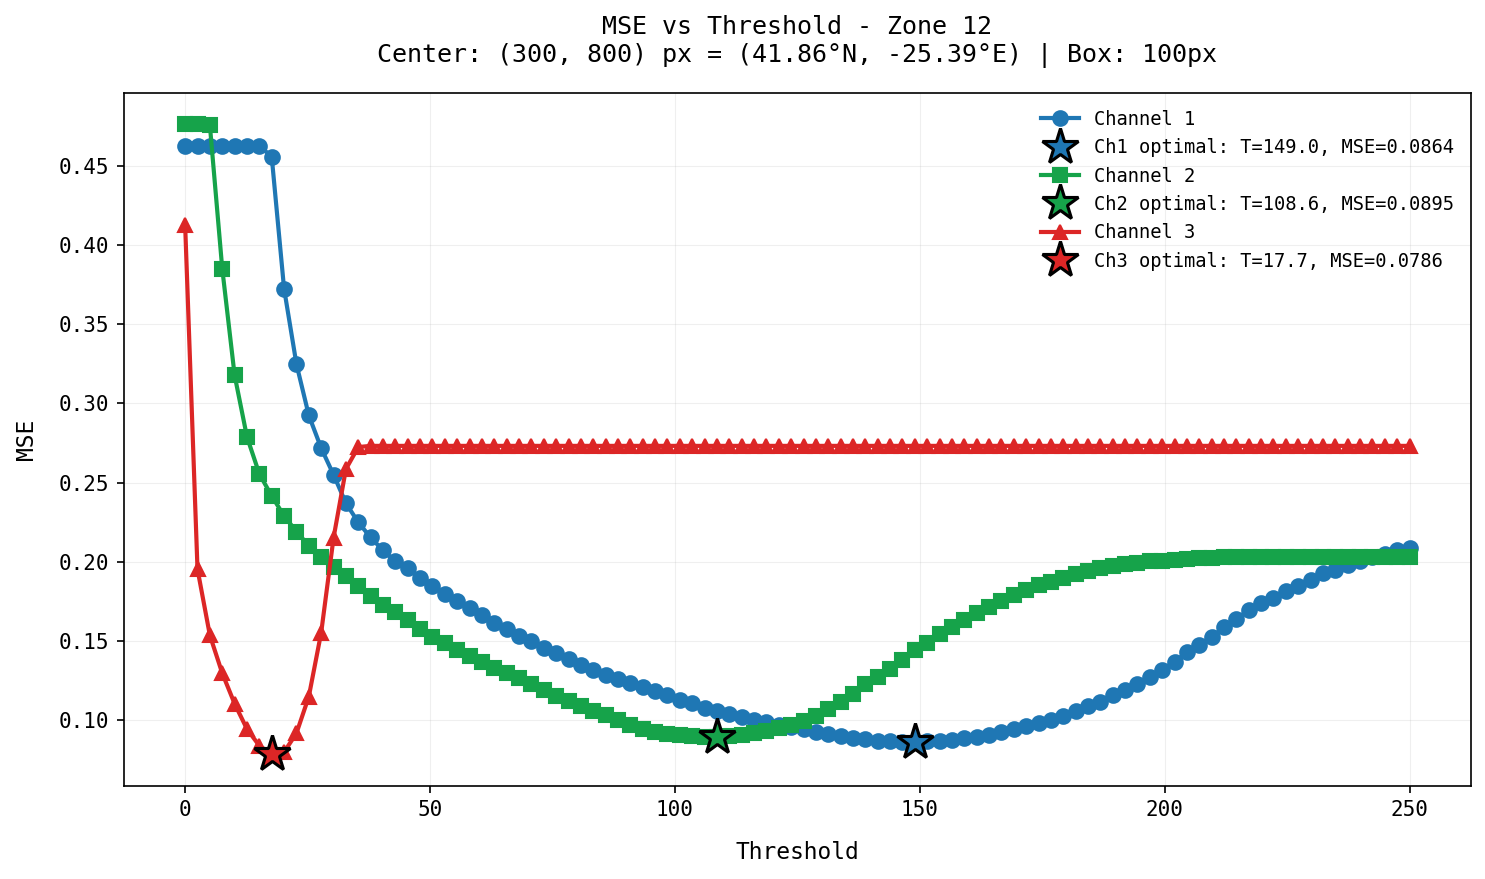
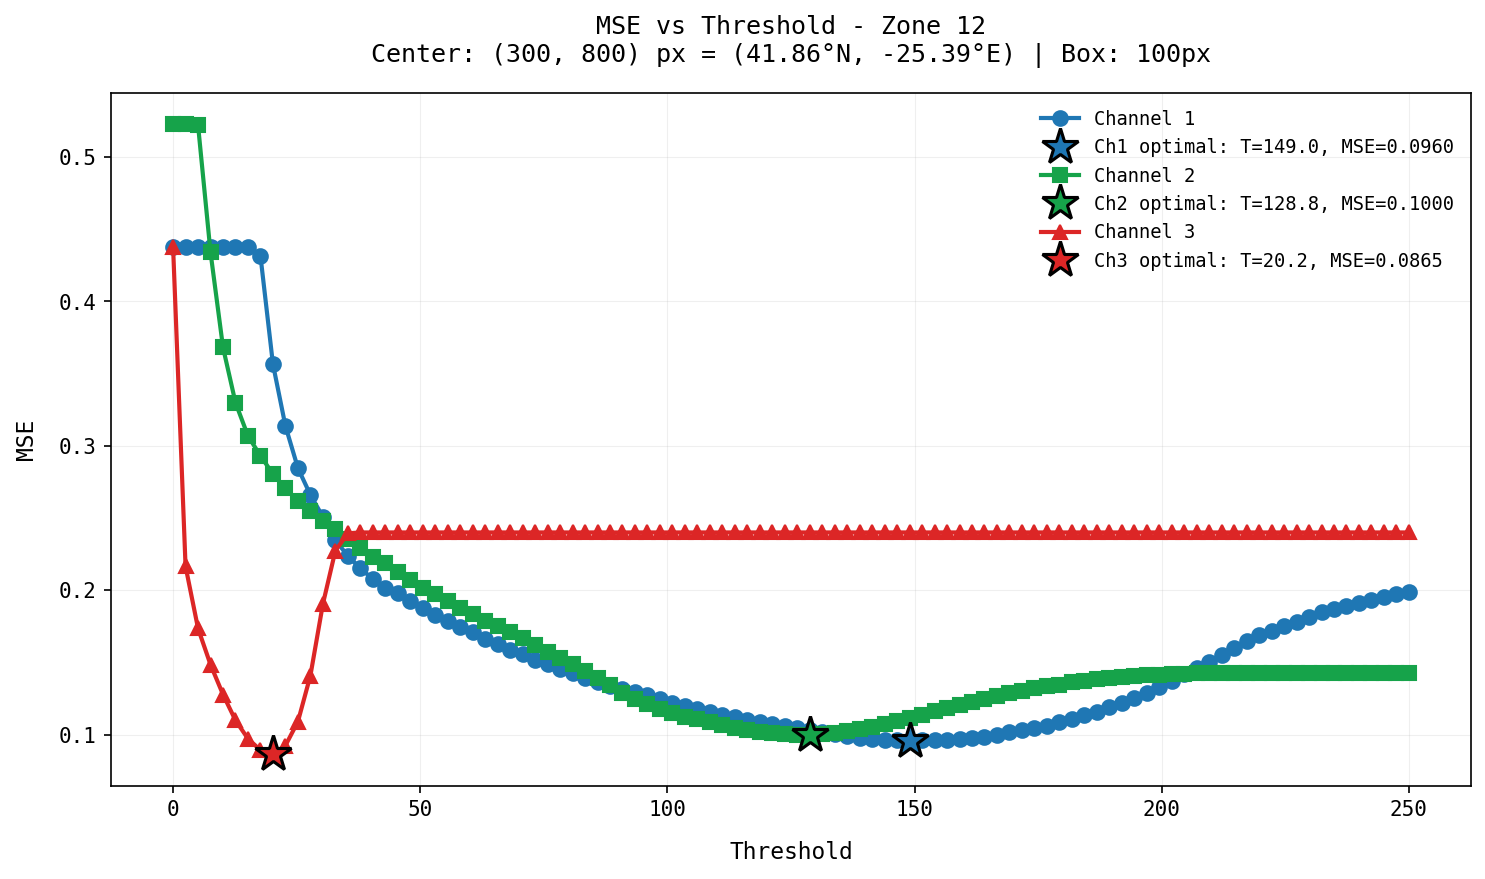
threshold experiments with hard coded normalization and baselines

diff --git a/mini_project/threshold_experiment.py b/mini_project/threshold_experiment.py
@@ -86,6 +86,13 @@ THRESHOLD_STEPS = 100
 SAVE_PLOT = True
 PLOT_FILENAME = None  # Auto-generated if None
 
+# Channel-specific normalization values
+CHANNEL_NORMALIZATION = {
+    1: 300,  # Channel 1 (0.6 μm)
+    2: 255,  # Channel 2 (0.8 μm)
+    3: 40    # Channel 3 (1.6 μm)
+}
+
 # ====================================================================
 
 BASE_DIR = 'data'
@@ -229,26 +236,21 @@ def get_zoom_region(data, x_center, y_center, box_size):
     
     return data[y_min:y_max, x_min:x_max]
 
-def calculate_mse(data, threshold):
+def calculate_mse(data, threshold, channel, channel_normalization):
     """Calculate MSE between binary classification and normalized pixel values
     
-    1. Normalize pixels and threshold to [0, 1]
+    1. Normalize pixels and threshold using channel-specific normalization
     2. Create binary classification (0 or 1)
     3. Calculate MSE between binary and normalized pixels
     """
-    # Find min and max for normalization
-    data_min = np.min(data)
-    data_max = np.max(data)
+    # Get channel-specific normalization value
+    norm_value = channel_normalization[channel]
     
-    # Avoid division by zero
-    if data_max == data_min:
-        return 0.0
+    # Normalize data to [0, 1] using channel-specific normalization
+    normalized_data = data / norm_value
     
-    # Normalize data to [0, 1]
-    normalized_data = (data - data_min) / (data_max - data_min)
-    
-    # Normalize threshold to [0, 1]
-    normalized_threshold = (threshold - data_min) / (data_max - data_min)
+    # Normalize threshold using same channel-specific normalization
+    normalized_threshold = threshold / norm_value
     
     # Create binary classification
     binary_classification = (normalized_data >= normalized_threshold).astype(float)
@@ -304,7 +306,7 @@ def run_experiment(zone, x_center, y_center, box_size, threshold_range):
         
         for channel in [1, 2, 3]:
             if channel in zoom_data:
-                mse = calculate_mse(zoom_data[channel], threshold)
+                mse = calculate_mse(zoom_data[channel], threshold, channel, CHANNEL_NORMALIZATION)
                 mse_results[channel].append(mse)
             else:
                 mse_results[channel].append(np.nan)
@@ -480,6 +482,8 @@ def run_spatial_experiment(lat_range, lon_range, n_points, zone, box_size, thres
                          of std dev of normalized pixel values at each lat/lon point
         constant_mse: dict with keys 1,2,3, values are 2D arrays (n_points x n_points)
                      of MSE when using the constant threshold at each lat/lon point
+        random_baseline_mse: dict with keys 1,2,3, values are 2D arrays (n_points x n_points)
+                            of MSE when using random classification based on mean pixel value
     """
     print(f"\n{'='*70}")
     print(f"Running Spatial Threshold Experiment")
@@ -491,6 +495,9 @@ def run_spatial_experiment(lat_range, lon_range, n_points, zone, box_size, thres
     print(f"Box size: {box_size} pixels")
     print(f"Threshold range: {threshold_range[0]} to {threshold_range[-1]} ({len(threshold_range)} steps)")
     print(f"Constant thresholds for comparison: Ch1={constant_thresholds[1]}, Ch2={constant_thresholds[2]}, Ch3={constant_thresholds[3]}")
+    
+    # Set random seed for reproducibility of random baseline
+    np.random.seed(42)
     
     # Create grid of lat/lon points
     lats = np.linspace(lat_range[0], lat_range[1], n_points)
@@ -527,12 +534,18 @@ def run_spatial_experiment(lat_range, lon_range, n_points, zone, box_size, thres
         3: np.full((n_points, n_points), np.nan)
     }
     
+    random_baseline_mse = {
+        1: np.full((n_points, n_points), np.nan),
+        2: np.full((n_points, n_points), np.nan),
+        3: np.full((n_points, n_points), np.nan)
+    }
+    
     # Load geo calibration
     geo = Geo('geo.txt')
     
     if not geo.cal:
         print("Error: Geographic calibration not available!")
-        return lats, lons, optimal_thresholds, optimal_mse, mean_pixel_values, std_pixel_values, constant_mse
+        return lats, lons, optimal_thresholds, optimal_mse, mean_pixel_values, std_pixel_values, constant_mse, random_baseline_mse
     
     # Loop over all grid points
     total_points = n_points ** 2
@@ -566,21 +579,34 @@ def run_spatial_experiment(lat_range, lon_range, n_points, zone, box_size, thres
                 
                 # Calculate MSE for each threshold and find optimal, also calculate mean and std
                 for channel in [1, 2, 3]:
-                    # Get normalized pixel values for this channel
+                    # Get normalized pixel values for this channel using channel-specific normalization
                     data = zoom_data[channel]
-                    normalized_data = data / 255.0
+                    norm_value = CHANNEL_NORMALIZATION[channel]
+                    normalized_data = data / norm_value
                     
                     # Calculate mean and std of normalized pixels
-                    mean_pixel_values[channel][i, j] = np.mean(normalized_data)
+                    mean_pixel_value = np.mean(normalized_data)
+                    mean_pixel_values[channel][i, j] = mean_pixel_value
                     std_pixel_values[channel][i, j] = np.std(normalized_data)
                     
+                    # Calculate random baseline MSE
+                    # Randomly classify pixels as 1 or 0 based on mean pixel value
+                    n_pixels = normalized_data.size
+                    n_ones = int(np.round(mean_pixel_value * n_pixels))
+                    random_classification = np.zeros(n_pixels)
+                    random_indices = np.random.choice(n_pixels, size=n_ones, replace=False)
+                    random_classification[random_indices] = 1
+                    random_classification = random_classification.reshape(normalized_data.shape)
+                    # Calculate MSE between random classification and actual normalized pixels
+                    random_baseline_mse[channel][i, j] = np.mean((random_classification - normalized_data) ** 2)
+                    
                     # Calculate MSE for constant threshold
-                    constant_mse[channel][i, j] = calculate_mse(data, constant_thresholds[channel])
+                    constant_mse[channel][i, j] = calculate_mse(data, constant_thresholds[channel], channel, CHANNEL_NORMALIZATION)
                     
                     # Calculate MSE for each threshold
                     mse_values = []
                     for threshold in threshold_range:
-                        mse = calculate_mse(data, threshold)
+                        mse = calculate_mse(data, threshold, channel, CHANNEL_NORMALIZATION)
                         mse_values.append(mse)
                     
                     # Find optimal threshold (minimum MSE)
@@ -657,22 +683,40 @@ def run_spatial_experiment(lat_range, lon_range, n_points, zone, box_size, thres
             print()
     
     print(f"{'='*70}")
-    print("MSE COMPARISON: Optimal vs Constant Threshold")
+    print("Summary Statistics - Random Baseline MSE")
+    print(f"{'='*70}")
+    for channel in [1, 2, 3]:
+        valid_values = random_baseline_mse[channel][~np.isnan(random_baseline_mse[channel])]
+        if len(valid_values) > 0:
+            print(f"Channel {channel}:")
+            print(f"  Mean random baseline MSE: {np.mean(valid_values):.4f}")
+            print(f"  Std dev: {np.std(valid_values):.4f}")
+            print(f"  Min: {np.min(valid_values):.4f}")
+            print(f"  Max: {np.max(valid_values):.4f}")
+            print()
+    
+    print(f"{'='*70}")
+    print("MSE COMPARISON: Optimal vs Constant Threshold vs Random Baseline")
     print(f"{'='*70}")
     for channel in [1, 2, 3]:
         valid_optimal = optimal_mse[channel][~np.isnan(optimal_mse[channel])]
         valid_constant = constant_mse[channel][~np.isnan(constant_mse[channel])]
-        if len(valid_optimal) > 0 and len(valid_constant) > 0:
+        valid_random = random_baseline_mse[channel][~np.isnan(random_baseline_mse[channel])]
+        if len(valid_optimal) > 0 and len(valid_constant) > 0 and len(valid_random) > 0:
             avg_optimal = np.mean(valid_optimal)
             avg_constant = np.mean(valid_constant)
-            improvement = ((avg_constant - avg_optimal) / avg_constant) * 100
+            avg_random = np.mean(valid_random)
+            improvement_vs_constant = ((avg_constant - avg_optimal) / avg_constant) * 100
+            improvement_vs_random = ((avg_random - avg_optimal) / avg_random) * 100
             print(f"Channel {channel} (Constant Threshold = {constant_thresholds[channel]}):")
-            print(f"  Average Minimum MSE (optimal per box): {avg_optimal:.4f}")
+            print(f"  Average Optimal MSE (best per box): {avg_optimal:.4f}")
             print(f"  Average Constant Threshold MSE: {avg_constant:.4f}")
-            print(f"  Improvement from optimization: {improvement:.2f}%")
+            print(f"  Average Random Baseline MSE: {avg_random:.4f}")
+            print(f"  Improvement vs constant threshold: {improvement_vs_constant:.2f}%")
+            print(f"  Improvement vs random baseline: {improvement_vs_random:.2f}%")
             print()
     
-    return lats, lons, optimal_thresholds, optimal_mse, mean_pixel_values, std_pixel_values, constant_mse
+    return lats, lons, optimal_thresholds, optimal_mse, mean_pixel_values, std_pixel_values, constant_mse, random_baseline_mse
 
 def plot_spatial_results(lats, lons, optimal_thresholds, optimal_mse, mean_pixel_values, std_pixel_values, zone, save=False):
     """Create heatmaps showing optimal threshold, minimum MSE, mean and std of pixels at each lat/lon point"""
@@ -804,7 +848,7 @@ print(f"This will run {SPATIAL_N_POINTS**2} experiments (may take several minute
 spatial_threshold_range = np.linspace(THRESHOLD_MIN, THRESHOLD_MAX, THRESHOLD_STEPS)
 
 # Run spatial experiment
-lats, lons, optimal_thresholds, optimal_mse, mean_pixel_values, std_pixel_values, constant_mse = run_spatial_experiment(
+lats, lons, optimal_thresholds, optimal_mse, mean_pixel_values, std_pixel_values, constant_mse, random_baseline_mse = run_spatial_experiment(
     lat_range=(SPATIAL_LAT_MIN, SPATIAL_LAT_MAX),
     lon_range=(SPATIAL_LON_MIN, SPATIAL_LON_MAX),
     n_points=SPATIAL_N_POINTS,
